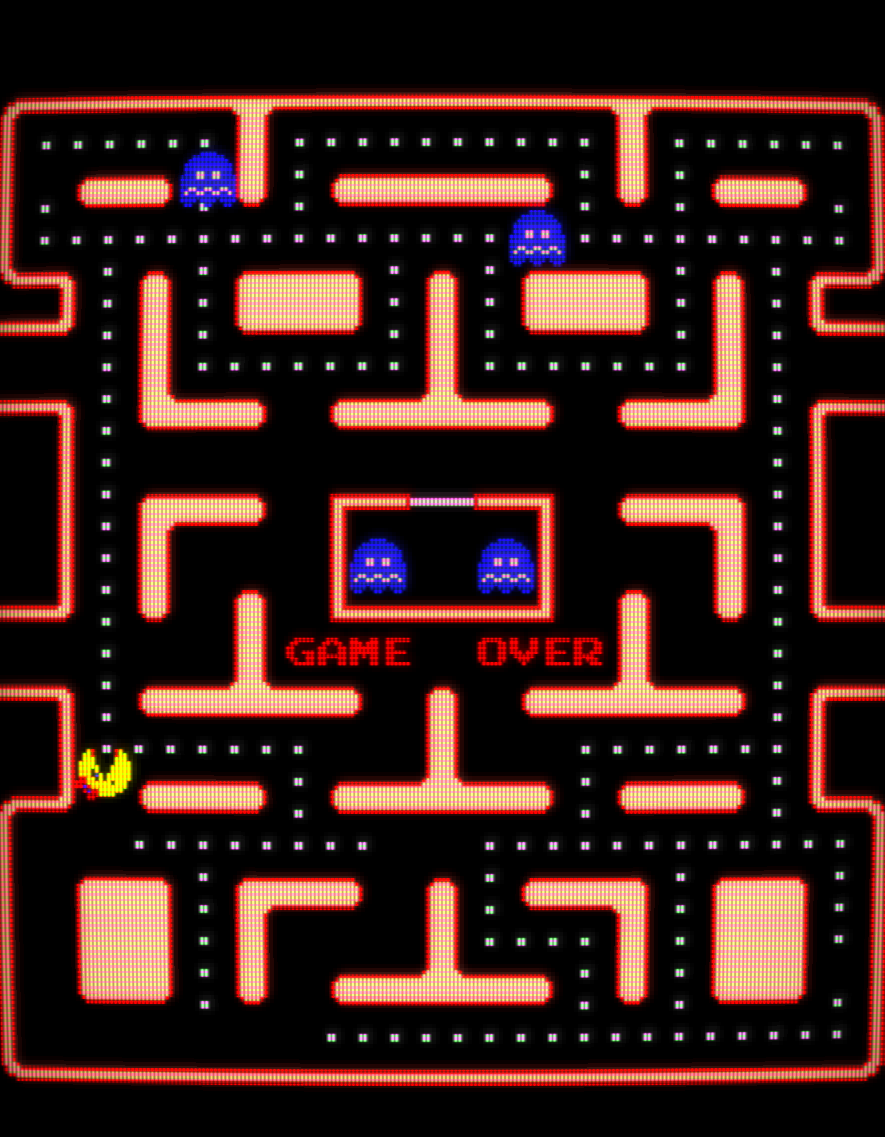
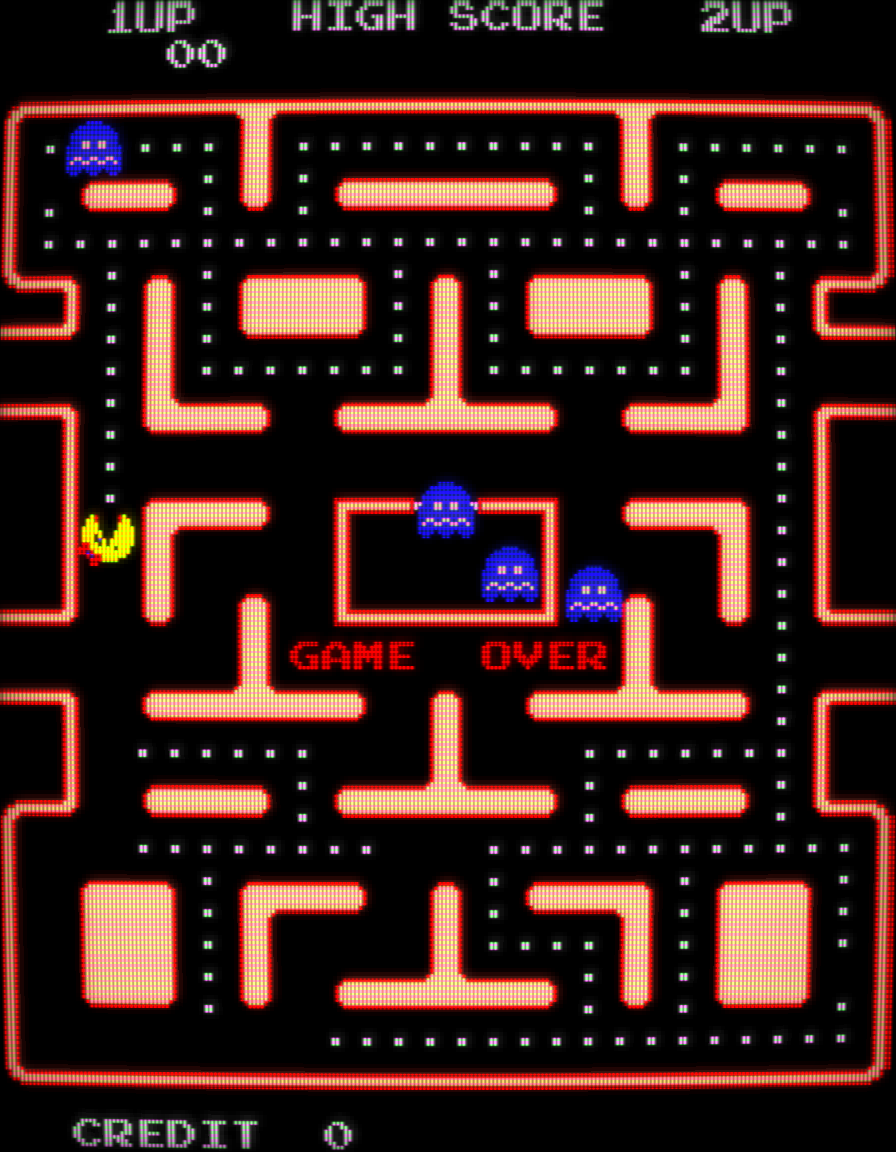
Fix video crop

diff --git a/src/pacman/video.rs b/src/pacman/video.rs
@@ -185,8 +185,8 @@ impl Video {
     }
 
     pub fn render_frame(&mut self, rom: &BaseRom, mem: &Memory) {
-        for tile_x in 2..34 {
-            for tile_y in 0..32 {
+        for tile_x in 0..36 {
+            for tile_y in 2..30 {
                 let tile = (tile_y * 36 + tile_x) as u16;
                 let idx = self.tile_map[tile as usize];
                 if idx == 0x400 {
